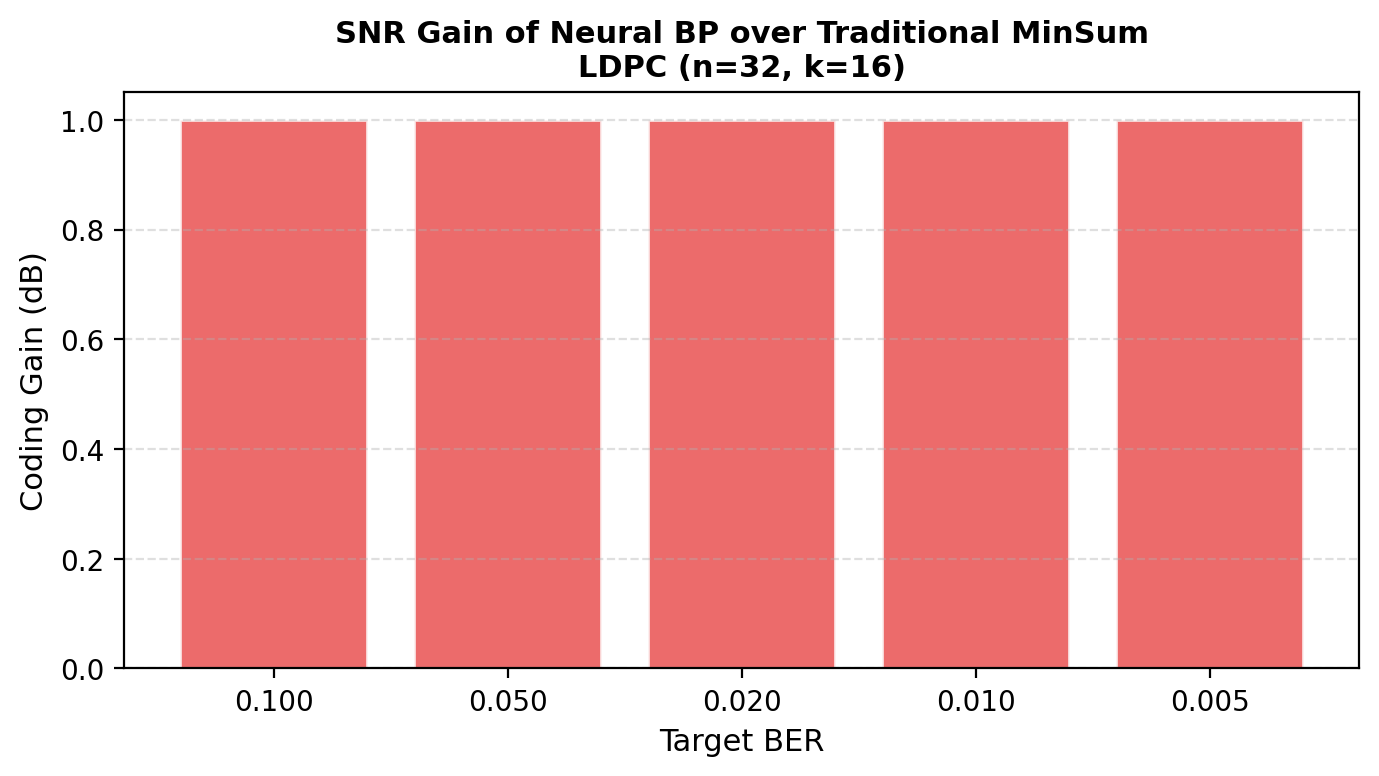
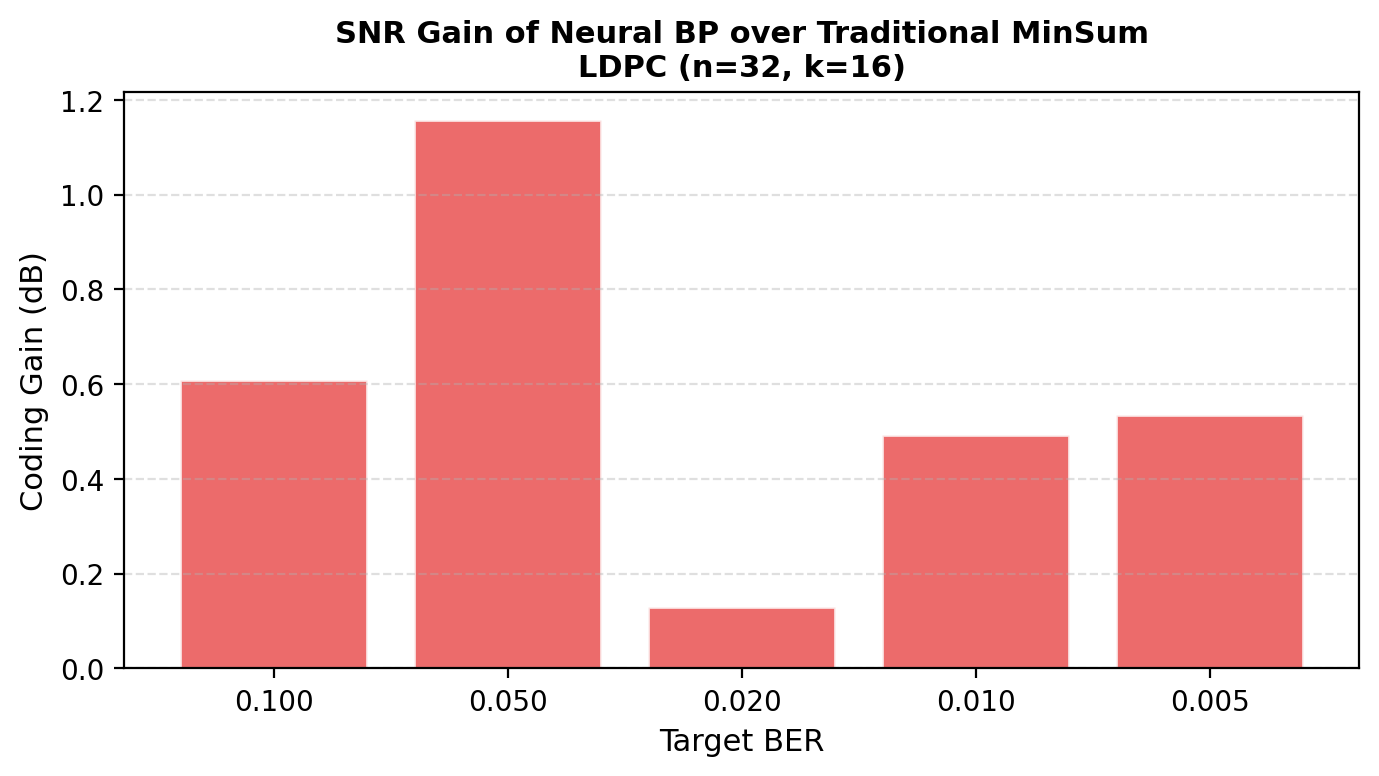
neural_snr_gain

diff --git a/纠错编码/Code/AI/BP_LDPC.py b/纠错编码/Code/AI/BP_LDPC.py
@@ -218,12 +218,12 @@ def plot_snr_gain(snr_range, ber_trad, ber_neural, n, k, save_dir):
         # 在传统 MinSum 曲线上找到该 BER 对应的 SNR（插值）
         snr_trad_interp = np.interp(
             np.log10(ber_target),
-            [-np.log10(b) for _, b in reversed(valid_trad)],
+            [np.log10(b) for _, b in reversed(valid_trad)],
             [s for s, _ in reversed(valid_trad)]
         )
         snr_neural_interp = np.interp(
             np.log10(ber_target),
-            [-np.log10(b) for _, b in reversed(valid_neural)],
+            [np.log10(b) for _, b in reversed(valid_neural)],
             [s for s, _ in reversed(valid_neural)]
         )
         gain = snr_trad_interp - snr_neural_interp